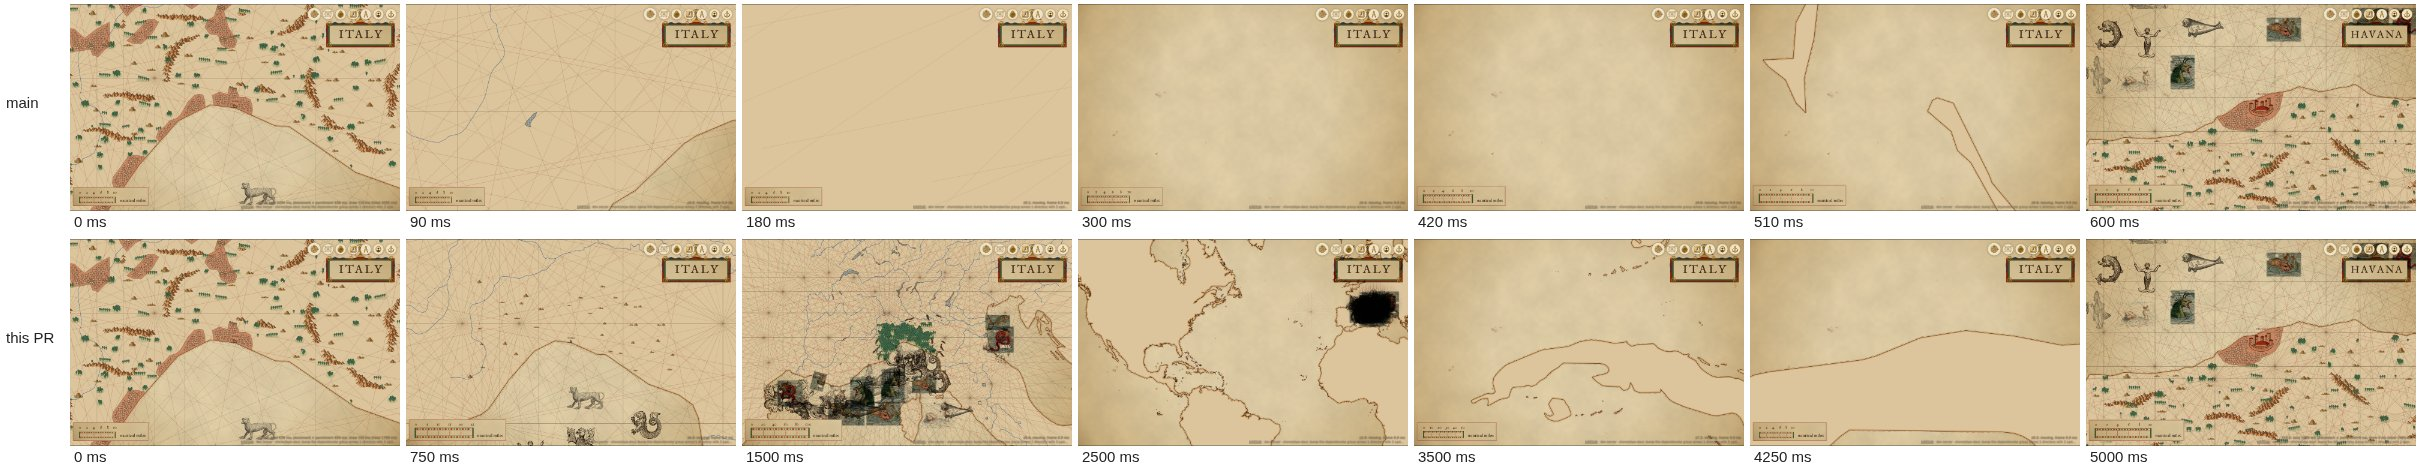
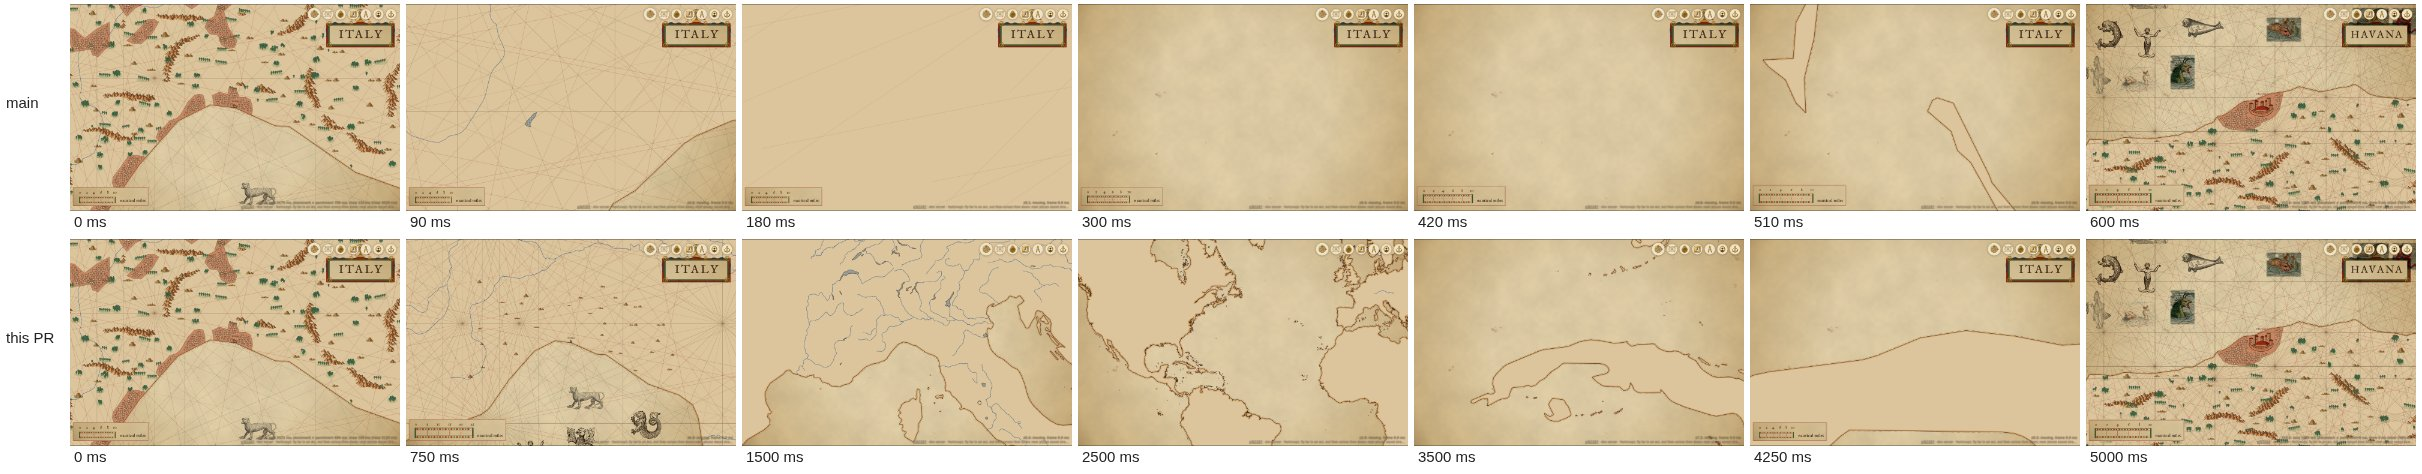
fix(map): a flight leaves out the placed ornaments far from their zoom; test the z1 clamp
Review of #299: shrunk mid-arc, the ornaments placed at the start crowded
into a blot; grown, they smeared. A flight now draws them only within one
zoom level of where they were placed, so the coast carries the place on the
way. The frames in docs/fly-arc/ are recaptured.

The top-of-arc test now checks Genoa to Auckland at z2.03 and a pole-to-pole
flight held at z1, the map's widest zoom.

diff --git a/public/page.js b/public/page.js
@@ -979,7 +979,9 @@ function paintFrame(doing) {
   const t = performance.now();
   // the 10m cells placed last while they cover the view; 50m otherwise, until it stops and is placed again
   drawGround(ctx, covers(ground.world, view) ? ground.world : ground.coarse, view, ground.bg);
-  drawAnchored(ctx, ground.anchored, ground.bg, view); // the placed ornaments, held to the earth
+  // the placed ornaments, held to the earth; a flight leaves them out once it is more than FLY_HOLD zoom levels from
+  // where they were placed, since shrunk they crowd into a blot and grown they smear, and the coast keeps the place
+  if (!flightTo || Math.abs(Math.log2(viewProjection(view).k / ground.anchored.k)) <= FLY_HOLD) drawAnchored(ctx, ground.anchored, ground.bg, view);
   drawPictures(ctx);
   drawSheetHandles(ctx);
   drawCards(true);
@@ -1817,6 +1819,7 @@ $('coordsText').addEventListener('input', () => { $('goMiss').hidden = true; });
 // straight, a far one in an arc out, across and down, longer for longer): the ground is drawn on the way as
 // for a drag, and the ornaments placed when it lands. Every fly on the page comes through here. Reduced motion jumps.
 let flight = 0, flightTo = null; // the view a flight is bound for, while it flies
+const FLY_HOLD = 1; // zoom levels a flight draws the placed ornaments over, either side of where they were placed
 function goTo(target) {
   cancelAnimationFrame(flight);
   pinTitle = null;
